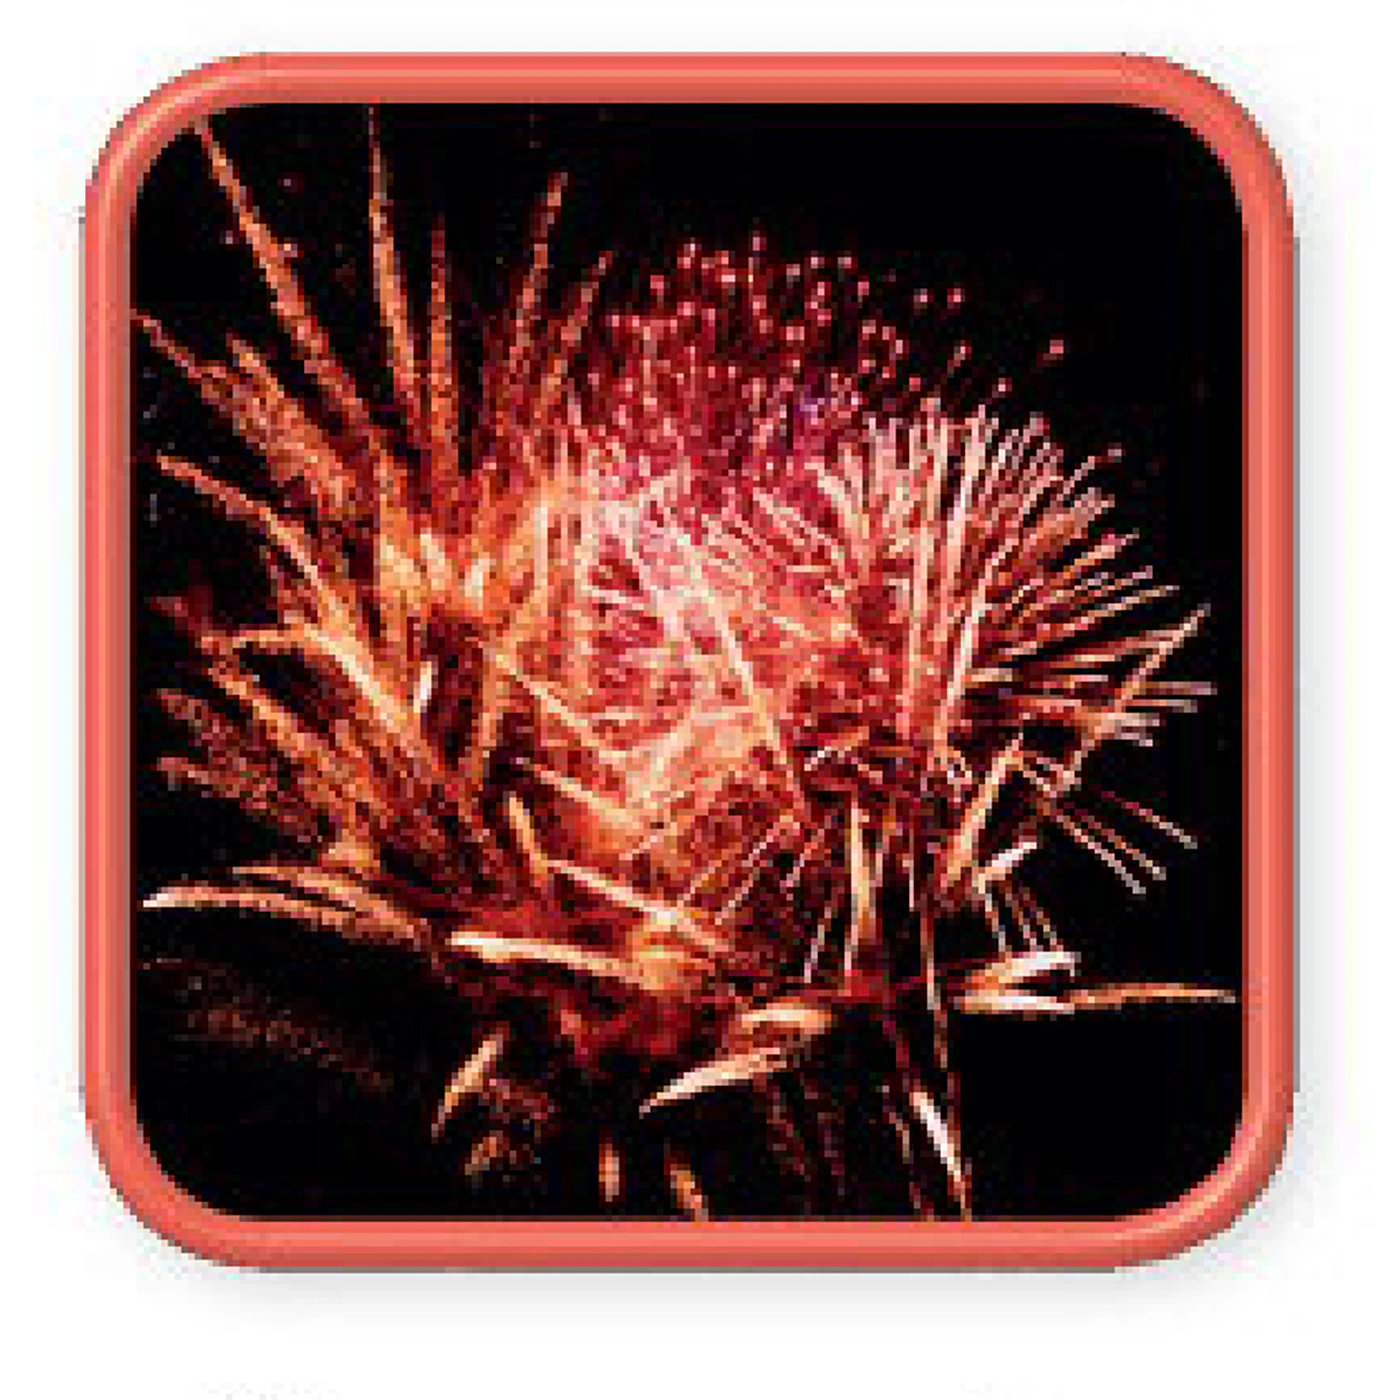
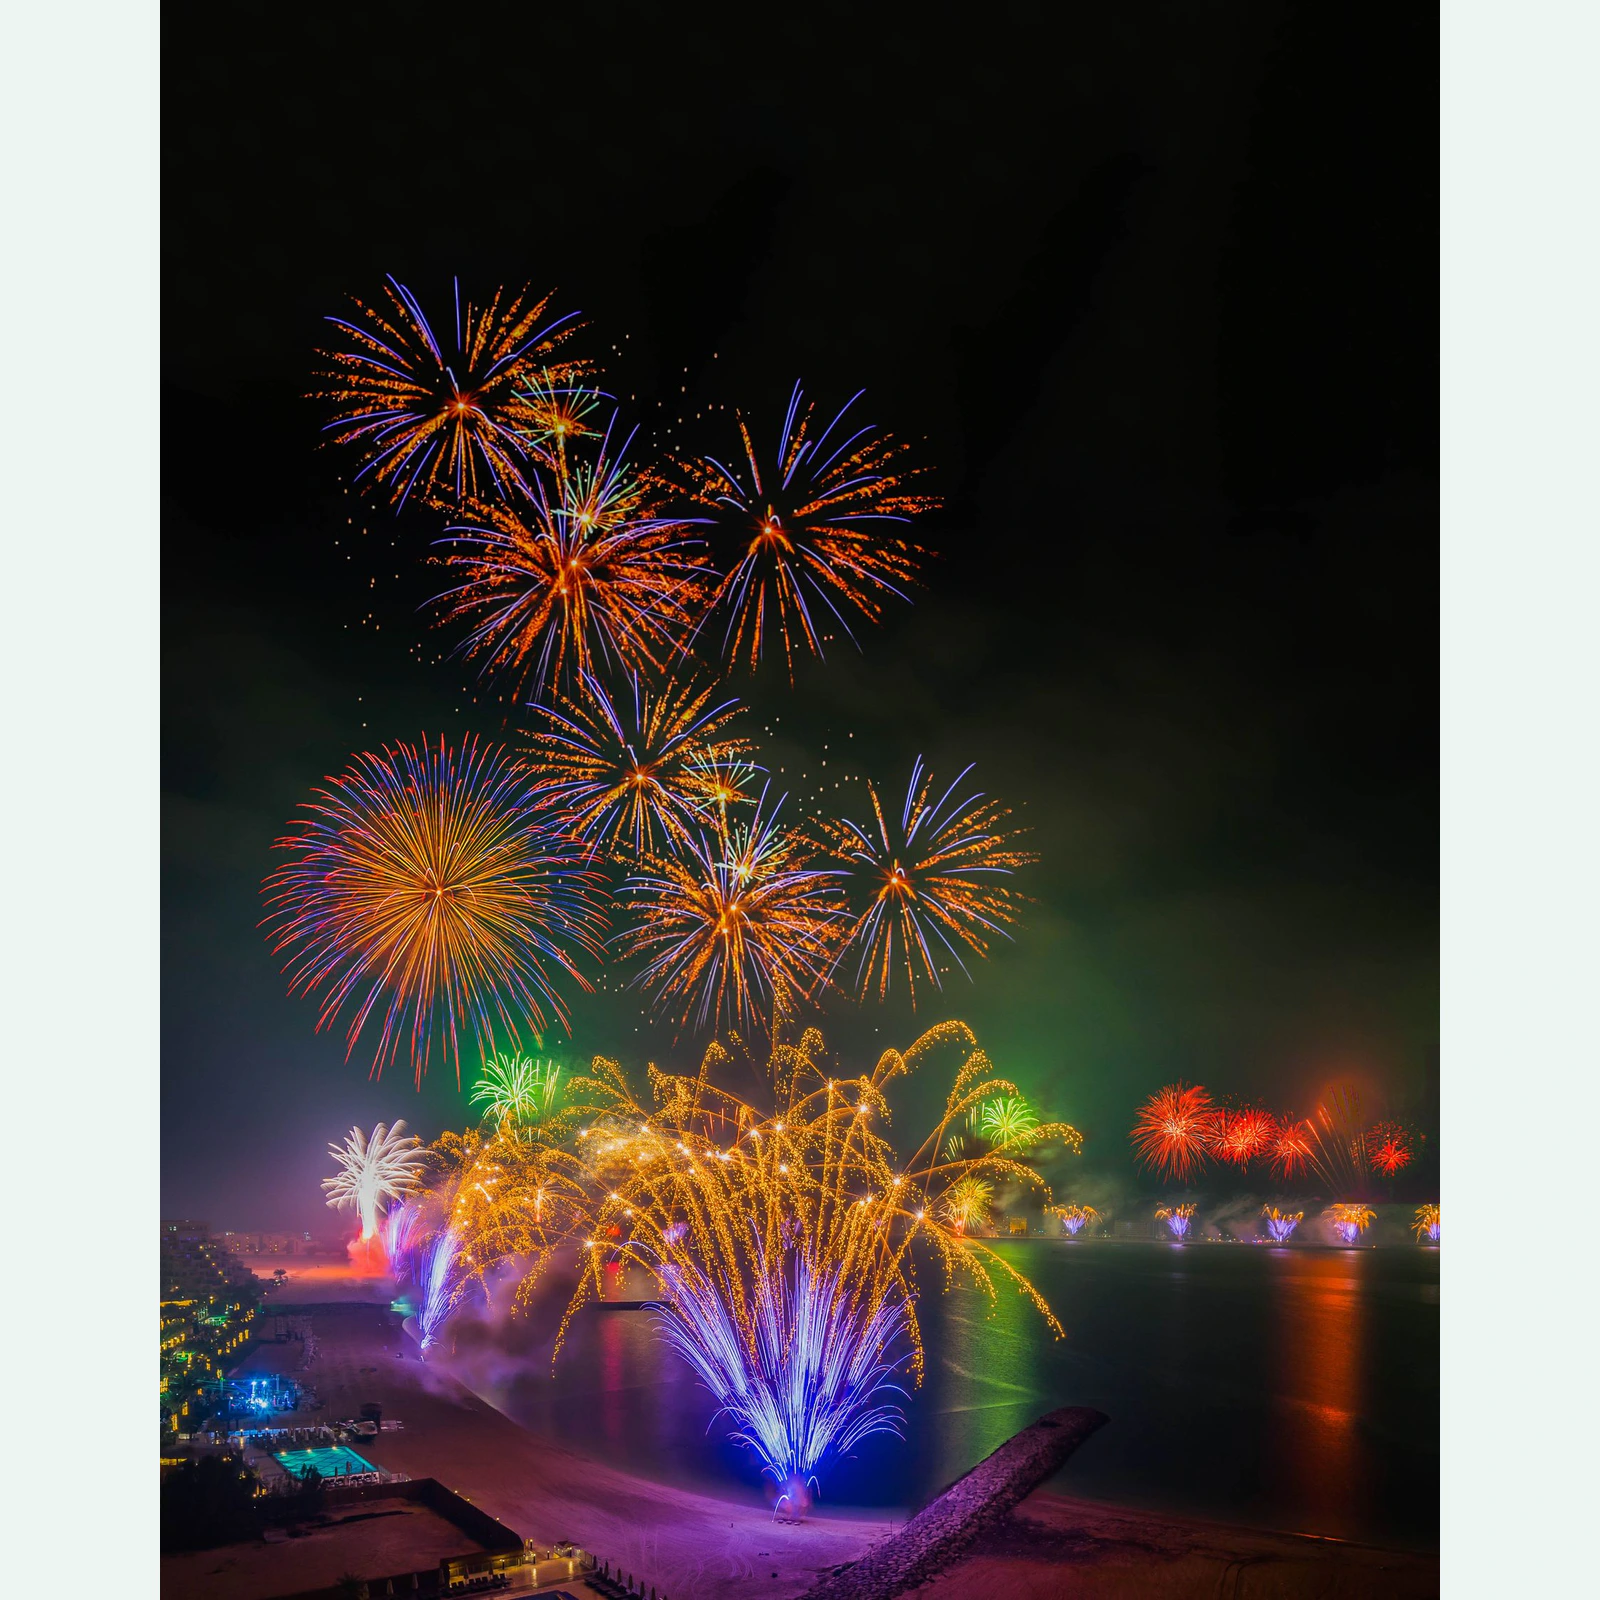
Publish Discover 1 Unit 3 Vocabulary

diff --git a/index.html b/index.html
@@ -7,7 +7,7 @@
     <link rel="icon" href="data:,">
     <title>Discover 1 - Unit 3: Who&#39;s in the Tree? | Vocabulary Practice</title>
     <meta name="description" content="Học và trả bài từ vựng Colors and Light, Unit 3, Oxford Discover 1.">
-    <link rel="stylesheet" href="styles.css?v=20260805-u3">
+    <link rel="stylesheet" href="styles.css?v=20260805-waveform-hires">
   </head>
   <body>
     <div class="shell">
@@ -68,7 +68,7 @@
           </div>
           <div class="progress" aria-hidden="true"><span id="reviewProgress"></span></div>
           <section class="review-intro" id="reviewIntro">
-            <img src="assets/images/fireworks.webp?v=20260805-u3" alt="pháo hoa" width="1400" height="1400">
+            <img src="assets/images/fireworks.webp?v=20260805-waveform-hires" alt="pháo hoa" width="1400" height="1400">
             <div>
               <p class="word-label">Cách trả bài</p>
               <h2>Con nhìn ảnh và tự nói từ</h2>
@@ -99,6 +99,6 @@
       <button type="button" id="unlockAudio"><span aria-hidden="true">▶</span><strong>Bắt đầu học</strong><small>Trình duyệt cần một lần chạm để bật tiếng.</small></button>
     </div>
     <script id="lesson-data" type="application/json">[{"word":"fireworks","slug":"fireworks","ipa":"/ˈfaɪr.wɝːks/","meaning":"pháo hoa","focus":"Nhấn FIRE; đọc đủ cụm âm cuối /rks/ trong works.","example":"There are fireworks in the sky."},{"word":"dark","slug":"dark","ipa":"/dɑːrk/","meaning":"tối","focus":"Giữ nguyên âm /ɑːr/ rõ theo giọng Mỹ và chặn âm cuối /k/.","example":"The sky is dark."},{"word":"light","slug":"light","ipa":"/laɪt/","meaning":"sáng","focus":"Đọc nguyên âm đôi /aɪ/; chữ gh không phát âm.","example":"The sky is light."},{"word":"gray","slug":"gray","ipa":"/ɡreɪ/","meaning":"màu xám","focus":"Nối liền /ɡr/ và đọc trọn nguyên âm đôi /eɪ/.","example":"The elephant is gray."},{"word":"orange","slug":"orange","ipa":"/ˈɔːr.ɪndʒ/","meaning":"màu cam","focus":"Nhấn âm 1: OR-ange; kết thúc rõ bằng âm /dʒ/.","example":"The goldfish is orange."},{"word":"pink","slug":"pink","ipa":"/pɪŋk/","meaning":"màu hồng","focus":"Giữ rõ cụm âm cuối /ŋk/, không bỏ âm /k/.","example":"The flowers are pink."}]</script>
-    <script src="app.js?v=20260805-u3"></script>
+    <script src="app.js?v=20260805-waveform-hires"></script>
   </body>
 </html>

diff --git a/styles.css b/styles.css
@@ -242,7 +242,9 @@ h1 {
   width: 100%;
   height: 100%;
   display: block;
-  object-fit: cover;
+  object-fit: contain;
+  object-position: center;
+  background: #eef4f3;
 }
 
 .replay-hint {
@@ -467,7 +469,9 @@ h1 {
   height: 100%;
   min-height: 500px;
   display: block;
-  object-fit: cover;
+  object-fit: contain;
+  object-position: center;
+  background: #eef4f3;
 }
 
 .review-intro > div {
@@ -509,7 +513,9 @@ h1 {
   width: 100%;
   height: 100%;
   display: block;
-  object-fit: cover;
+  object-fit: contain;
+  object-position: center;
+  background: #eef4f3;
 }
 
 .review-answer {

diff --git a/app.js b/app.js
@@ -53,7 +53,7 @@
   }
 
   function imagePath(item) {
-    return `assets/images/${item.slug}.webp?v=20260805`;
+    return `assets/images/${item.slug}.webp?v=20260805-waveform-hires`;
   }
 
   function audioPath(item) {
